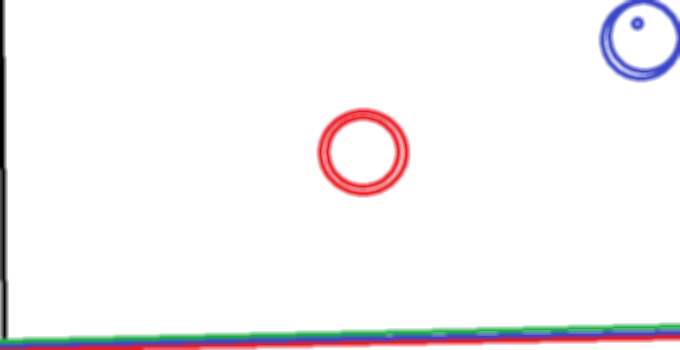
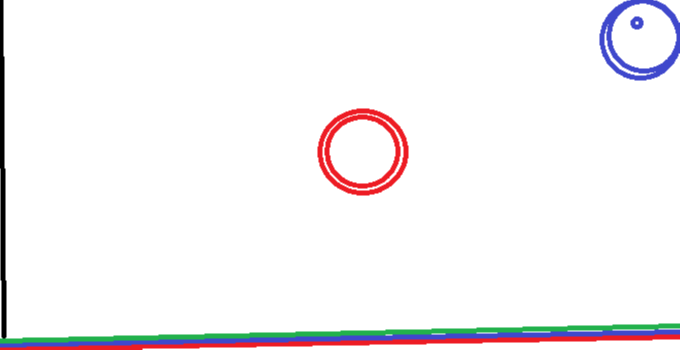
Added Gaussian filter, modified filter algorithm and tested.

Changed region(s): [[0.0, 0.0, 1.0, 1.0], [0.4632, 0.2857, 0.6176, 0.5714], [0.8647, 0.0, 1.0, 0.2571]]

diff --git a/Include/GaussianFilter.h b/Include/GaussianFilter.h
@@ -1,0 +1,21 @@
+#ifndef _GAUSSIANFILTER_H_
+#define _GAUSSIANFILTER_H_
+
+#include <Filter.h>
+
+namespace K9 {
+	class GaussianFilter :public Filter {
+	public:
+		GaussianFilter(float sigma = 1.0f, float radius = 2.0f) :
+			Filter(radius),
+			_sigma(sigma) {
+		}
+		virtual ~GaussianFilter() {}
+
+		float execute(float x) const override final;
+	private:
+		float _sigma;
+	};
+}
+
+#endif // !_GAUSSIANFILTER_H_

diff --git a/Source/GaussianFilter.cpp b/Source/GaussianFilter.cpp
@@ -1,0 +1,10 @@
+#define _USE_MATH_DEFINES
+#include <GaussianFilter.h>
+#include <math.h>
+
+
+namespace K9 {
+	float GaussianFilter::execute(float x) const {
+		return powf(M_E, -(x*x) / (2.0f*_sigma*_sigma)) / (_sigma*sqrtf(2.0f*M_PI));
+	}
+}
